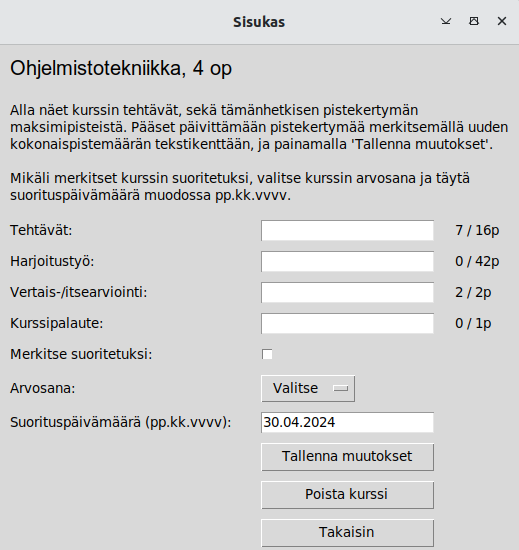
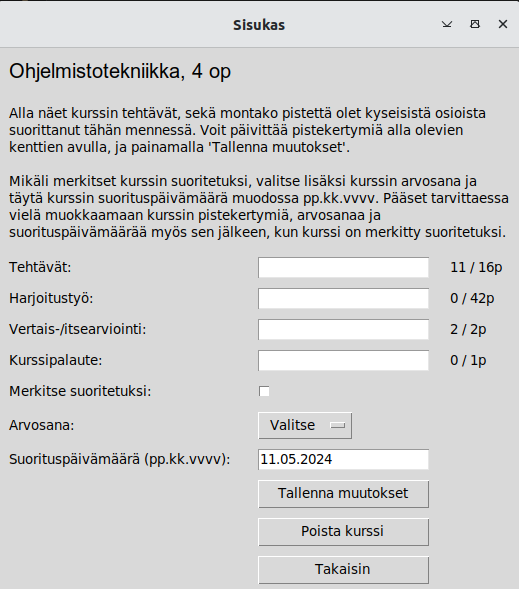
Testausdokumentti luotu ja dokumentaatio päivitetty. (+ typo korjattu src/repositories/course_repository.py)

diff --git a/study-app/src/repositories/course_repository.py b/study-app/src/repositories/course_repository.py
@@ -235,7 +235,7 @@ class CourseRepository:
         self._connection.commit()
 
     def set_undone(self, course_id):
-        """Asettaa kurssin statukesn käynnissäolevaksi.
+        """Asettaa kurssin statuksen käynnissäolevaksi.
 
         Args:
             course_id:

diff --git a/study-app/dokumentaatio/vaatimusmaarittely.md b/study-app/dokumentaatio/vaatimusmaarittely.md
@@ -6,14 +6,14 @@ Sovelluksen avulla käyttäjä voi seurata ja pitää kirjaa omien opintojensa e
 
 ## Käyttöliittymäluonnos
 
-Sovellus koostuu viidestä eri näkymästä.
+Sovellus koostuu kuudesta eri näkymästä.
 
 ![](./kuvat/kayttoliittyma-hahmotelma.png)
 
 Sovellus aukeaa kirjautumisnäkymään.
 
 **Kirjautuminen**:
-* käyttäjä voi siirtyä onnistumisen kirjautumisen jälkeen etusivulle.
+* käyttäjä voi siirtyä onnistuneen kirjautumisen jälkeen etusivulle.
 * käyttäjä voi siirtyä uuden käyttäjätunnuksen luomiseen.
 
 **Uusi käyttäjä**:
@@ -23,7 +23,10 @@ Sovellus aukeaa kirjautumisnäkymään.
 * listaus käyttäjän käynnissä olevista kursseista, ja mahdollisuus avata jokaisesta tarkempi kurssinäkymä.
 * painike uuden kurssin lisäämistä varten.
 * painike, josta pääsee suoritettujen kurssien näkymään.
-* uloskirjautumispainike, joka ohjaa takaisin kirjautumissivulle.
+* uloskirjautumispainike, joka kirjaa käyttäjän ulos ja ohjaa takaisin kirjautumissivulle.
+
+**Uusi kurssi**:
+* käyttäjä voi tallentaa uuden kurssin sovellukseen täyttämällä sen nimen, opintopisteet ja mahdolliset tehtäväkohtaiset maksimipisteet.
 
 **Kurssinäkymä**:
 * käyttäjä voi nähdä montako pistettä jokaisesta kurssin osa-alueesta on suoritettu tähän asti, ja muokata suoritettujen pisteiden määrää.
@@ -31,50 +34,46 @@ Sovellus aukeaa kirjautumisnäkymään.
 * käyttäjä voi poistaa kurssin.
 
 **Suoritetut**:
-* suoritettujen kurssien ja opintopisteiden määrä ja keskiarvo.
-* mahdollisuus siirtyä muokkaamaan/tarkastelemaan kurssin sisältöä.
+* hyväksytysti suoritettujen opintopisteiden määrä ja keskiarvo.
+* listaus suoritetuista kursseista.
+* mahdollisuus siirtyä muokkaamaan/tarkastelemaan suoritetun kurssin sisältöä.
 * painike etusivulle.
 
 ## Perusversion tarjoama toiminnallisuus
 
-:sunglasses: = koko toiminnallisuus valmis
-
-:white_check_mark: = osio valmis
-
-:hourglass_flowing_sand: = työn alla
-
+:sunglasses: = koko toiminnallisuus valmis ja testattu
 
 ### Ennen kirjautumista
 
 - :sunglasses: Käyttäjä voi luoda järjestelmään käyttäjätunnuksen.
-  - :white_check_mark: Käyttäjätunnuksen täytyy olla uniikki ja pituudeltaan vähintään 4 merkkiä.
-  - :white_check_mark: Salasanan tulee olla vähintään 8 merkkiä pitkä, sisältäen vähintään yhden ison kirjaimen ja yhden numeron.
-  - :white_check_mark: Mikäli käyttäjätunnus tai salasana eivät täytä vaadittuja kriteereitä, käyttäjälle tulee tästä ilmoitus.
+  - Käyttäjätunnuksen täytyy olla uniikki ja pituudeltaan vähintään 4 merkkiä.
+  - Salasanan tulee olla vähintään 8 merkkiä pitkä, sisältäen vähintään yhden ison kirjaimen ja yhden numeron.
+  - Mikäli käyttäjätunnus tai salasana eivät täytä vaadittuja kriteereitä, käyttäjälle tulee tästä ilmoitus.
 - :sunglasses: Käyttäjä voi kirjautua järjestelmään.
-  - :white_check_mark: Kirjautuminen onnistuu olemassaolevalla käyttäjätunnuksella ja salasanalla.
-  - :white_check_mark: Käyttäjälle tulee virheilmoitus, mikäli käyttäjätunnusta ei olemassa, tai syötetty salasana on väärin.
+  - Kirjautuminen onnistuu olemassaolevalla käyttäjätunnuksella ja salasanalla.
+  - Käyttäjälle tulee virheilmoitus, mikäli käyttäjätunnusta ei olemassa, tai syötetty salasana on väärin.
 
 ### Kirjautumisen jälkeen
 
 - :sunglasses: Käyttäjä näkee etusivulla listattuna hänen tällä hetkellä käynnissä olevat kurssit.
-  - :white_check_mark: Jokaisen kurssin kohdalla on "Näytä/muokkaa"-painike, jota painamalla avautuu kyseisen kurssin oma kurssisivu.
+  - Jokaisen kurssin kohdalla on "Näytä/muokkaa"-painike, jota painamalla avautuu kyseisen kurssin oma kurssisivu.
 
 - :sunglasses: Käyttäjä voi lisätä uuden oman suoritetun/käynnissä olevan kurssin järjestelmään.
-  - :white_check_mark: Kurssin tietoihin saa tallennettua kurssin nimen, opintopistemäärän, sekä tiedot siitä, mistä eri osa-alueista (esim. tehtävät/harjoitustyö/koe/vertaisarviot, yms) kurssin suoritus koostuu.
-  - :white_check_mark: Käyttäjä saa lisättyä jokaisen osa-alueen kohdalle niiden tuomat maksimipisteet.
+  - Kurssin tietoihin saa tallennettua kurssin nimen, opintopistemäärän, sekä tiedot siitä, mistä eri osa-alueista (esim. tehtävät/harjoitustyö/koe/vertaisarviot, yms) kurssin suoritus koostuu.
+  - Käyttäjä saa lisättyä jokaisen osa-alueen kohdalle niiden tuomat maksimipisteet.
 
 - :sunglasses: Käyttäjä voi päivittää omien käynnissä olevien kurssien etenemistä.
-  - :white_check_mark: Käyttäjä voi merkitä reaaliaikaisesti kurssin pistekertymän etenemistä, ja nähdä montako pistettä kustakin osa-alueesta on siihen asti kerätty maksimiin verrattuna.
-  - :white_check_mark: Käyttäjä voi merkitä kurssin suoritetuksi, jolloin lisäksi ilmoitetaan suorituspäivä, sekä saatu arvosana.
-  - :white_check_mark: Käyttäjä voi poistaa kyseisen kurssin suorituksen.
+  - Käyttäjä voi merkitä reaaliaikaisesti kurssin pistekertymän etenemistä, ja nähdä montako pistettä hän on kustakin osa-alueesta siihen asti suorittanut maksimiin verrattuna.
+  - Käyttäjä voi merkitä kurssin suoritetuksi, jolloin lisäksi ilmoitetaan suorituspäivä, sekä saatu arvosana.
+  - Käyttäjä voi poistaa kyseisen kurssin suorituksen.
 
-- :hourglass_flowing_sand: Käyttäjä voi nähdä listan omista suoritetuista kursseistaan.
-  - :white_check_mark: Näkymässä näkyy montako kurssia ja opintopistettä tähän asti on suoritettu, ja mikä suoritettujen kurssien keskiarvo on.
-  - :white_check_mark: Listauksessa näkyy lisäksi suoritettujen kurssien nimet, suorituspäivät, opintopisteet ja arvosana.
-  - :hourglass_flowing_sand: Listalla olevien suoritettujen kurssien tietoja pääsee muokkaamaan. Tämä on hyödyllistä, jos käyttäjä haluaa esimerkiksi myöhemmin uusia kurssin kokeen ja korottaa sen arvosanaa.
+- :sunglasses: Käyttäjä voi nähdä listan omista suoritetuista kursseistaan.
+  - Näkymässä näkyy montako opintopistettä käyttäjä on suorittanut hyväksytysti, ja mikä hyväksytysti suoritettujen kurssien keskiarvo on.
+  - Listauksessa näkyy lisäksi suoritettujen kurssien nimet, suorituspäivät, opintopisteet ja arvosana.
+  - Listalla olevien suoritettujen kurssien tietoja pääsee muokkaamaan. Käyttäjä voi muokata kertyneitä pisteitä, muuttaa kurssin statuksen takaisin käynnissä olevaksi tai muokata kurssin arvosanaa tai suorituspäivämäärää. Tämä on hyödyllistä, jos käyttäjä haluaa myöhemmin uusia joitain kurssin osia, tai vaikkapa koko kurssin. 
 
 - :sunglasses: Käyttäjä voi kirjautua ulos.
-  - :white_check_mark: Uloskirjautumisen jälkeen käyttäjä ohjataan sisäänkirjautumissivulle.
+  - Uloskirjautumisen jälkeen käyttäjä ohjataan sisäänkirjautumissivulle.
 
 ## Jatkokehitysideoita
 

diff --git a/study-app/dokumentaatio/testaus.md b/study-app/dokumentaatio/testaus.md
@@ -1,0 +1,29 @@
+# Testausdokumentti
+
+Sovellusta on testattu automatisoiduilla yksikkö- ja integraatiotesteillä, sekä manuaalisilla järjestelmätesteillä.
+
+## Yksikkö- ja integraatiotestaus
+
+### Sovelluslogiikka
+
+Sovelluslogiikasta vastaavia `CourseService`- ja `UserService`-luokkia testataan [TestCourseService](https://github.com/tihvis/ot-harjoitustyo/blob/master/study-app/src/tests/services/course_service_test.py)- ja [TestUserService](https://github.com/tihvis/ot-harjoitustyo/blob/master/study-app/src/tests/services/user_service_test.py)-testiluokilla. Testiluokat hyödyntävät _.env.test_ -tiedostossa olevaa testitietokantaa.
+
+### Repositorio-luokat
+
+Tiedon pysyväistallennuksesta vastaavia `CourseRepository` ja `UserRepository`-luokkia testataan [TestCourseRepository](https://github.com/tihvis/ot-harjoitustyo/blob/master/study-app/src/tests/repositories/course_repository_test.py) ja [TestUserRepository](https://github.com/tihvis/ot-harjoitustyo/blob/master/study-app/src/tests/repositories/user_repository_test.py)-testiluokilla. Samoin kuin sovelluslogiikan testeissä, myös repositorio-luokkien testeissä hyödynnetään _.env.test_ -tiedostossa olevaa testitietokantaa.
+
+### Testauskattavuus
+
+Sovelluksen testauksen haaraumakattavuus käyttöliittymäkerrosta lukuunottamatta on 98%.
+
+![](./kuvat/testikattavuus.png)
+
+## Järjestelmätestaus
+
+### Asennus ja konfigurointi
+
+Sovelluksen asennusta ja konfiguraatiota on testattu manuaalisesti [käyttöohjeen](./kayttoohje.md) mukaisesti. Sovellusta on testattu tilanteissa, joissa tietokanta on ollut jo olemassa, sekä tilanteissa joissa sitä ei ole ollut, jolloin tietokanta on luotu ja alustettu käyttöohjeiden mukaisesti.
+
+### Toiminnallisuus
+
+Kaikki [vaatimusmäärittelyn](https://github.com/tihvis/ot-harjoitustyo/blob/master/study-app/dokumentaatio/vaatimusmaarittely.md#perusversion-tarjoama-toiminnallisuus) toiminnallisuudet on testattu manuaalisesti sekä valideilla, että virheellisillä syötteillä.

diff --git a/study-app/dokumentaatio/kayttoohje.md b/study-app/dokumentaatio/kayttoohje.md
@@ -74,6 +74,6 @@ Kurssin voi myös poistaa painamalla "Poista kurssi"-painiketta, jolloin sovellu
 
 Kun kurssi on merkitty suoritetuksi, se tulee näkyviin suoritettujen kurssien näkymään, johon pääsee etusivulta "Suoritetut kurssit"-painikkeesta. Sivulla näkyy listattuna käyttäjän suoritetut kurssit, sekä hyväksytysti suoritettujen kurssien opintopisteet, sekä niiden pohjalta laskettu painotettu keskiarvo.
 
-Käyttäjä voi halutessaanvielä tarkastella tai muokata kurssin tietoja painamalla "Näytä/muokkaa"-painiketta, jolloin sovellus ohjautuu kyseisen kurssin kurssisivulle.
+Käyttäjä voi halutessaan vielä tarkastella tai muokata kurssin tietoja painamalla "Näytä/muokkaa"-painiketta, jolloin sovellus ohjautuu kyseisen kurssin kurssisivulle.
 
 ![Suoritetut kurssit](kuvat/ohje_suoritetut.png)

diff --git a/study-app/dokumentaatio/tuntikirjanpito.md b/study-app/dokumentaatio/tuntikirjanpito.md
@@ -13,4 +13,5 @@
 | 23.4. | 1    | Suoritettujen kurssien näkymää paranneltu.|
 | 29.4. | 4    | Docstringit lisätty.|
 | 30.4. | 4    | Suoritettujen kurssien näkymää paranneltu (lisätty keskiarvo ja opintopisteet) + niihin liittyvät testit.|
-| yht.  | 52   | | 
+| 11.5. | 4    | Korjattu bugi, missä suoritettua kurssia ei voinut merkitä takaisin käynnissäolevaksi. Testit jaettu repositories- ja services-kansioihin. Typokorjauksia.|
+| yht.  | 56   | | 
